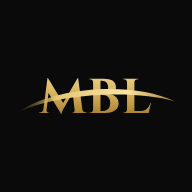
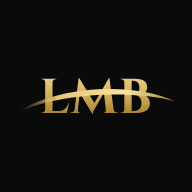
Renomeia o escritório para LMB Advocacia Estratégica
- Logo em contorno com as letras LMB (Cinzel Bold), favicon, ícones e
  imagem de compartilhamento atualizados
- Emblema de esquadro e compasso com G no divisor do topo e do
  fechamento, como no novo logo
- Nome e domínio provisório (lmbadvocacia.com.br) trocados em todos os
  arquivos

Claude-Session: https://claude.ai/code/session_01KeUDgpfwfzimbVqSmPvtkD

Changed region(s): [[0.2188, 0.4062, 0.7812, 0.5938]]

diff --git a/index.html b/index.html
@@ -3,24 +3,24 @@
 <head>
   <meta charset="utf-8">
   <meta name="viewport" content="width=device-width, initial-scale=1">
-  <title>Advocacia Empresarial no Rio de Janeiro | MBL Advocacia</title>
+  <title>Advocacia Empresarial no Rio de Janeiro | LMB Advocacia</title>
   <meta name="description" content="Escritório de advocacia no Rio de Janeiro: consultoria jurídica empresarial, direito societário, reestruturação de empresas e contencioso cível e empresarial.">
-  <!-- Domínio provisório: troque https://www.mbladvocacia.com.br aqui, no JSON-LD, no canonical de privacidade.html, em robots.txt, sitemap.xml e .htaccess -->
-  <link rel="canonical" href="https://www.mbladvocacia.com.br/">
+  <!-- Domínio provisório: troque https://www.lmbadvocacia.com.br aqui, no JSON-LD, no canonical de privacidade.html, em robots.txt, sitemap.xml e .htaccess -->
+  <link rel="canonical" href="https://www.lmbadvocacia.com.br/">
   <meta name="robots" content="max-image-preview:large">
   <meta property="og:type" content="website">
   <meta property="og:locale" content="pt_BR">
-  <meta property="og:site_name" content="MBL Advocacia Estratégica">
-  <meta property="og:url" content="https://www.mbladvocacia.com.br/">
-  <meta property="og:title" content="MBL Advocacia Estratégica | Advocacia empresarial no Rio de Janeiro">
+  <meta property="og:site_name" content="LMB Advocacia Estratégica">
+  <meta property="og:url" content="https://www.lmbadvocacia.com.br/">
+  <meta property="og:title" content="LMB Advocacia Estratégica | Advocacia empresarial no Rio de Janeiro">
   <meta property="og:description" content="Experiência a favor do seu futuro. Consultoria jurídica e contencioso cível e empresarial no Rio de Janeiro, com atendimento em todo o Brasil.">
-  <meta property="og:image" content="https://www.mbladvocacia.com.br/assets/og-image.jpg">
+  <meta property="og:image" content="https://www.lmbadvocacia.com.br/assets/og-image.jpg">
   <meta property="og:image:type" content="image/jpeg">
   <meta property="og:image:width" content="1200">
   <meta property="og:image:height" content="630">
-  <meta property="og:image:alt" content="Logotipo MBL em dourado sobre fundo preto, com os dizeres Advocacia Estratégica, Experiência a favor do seu futuro, Rio de Janeiro, atendimento em todo o Brasil.">
+  <meta property="og:image:alt" content="Logotipo LMB em dourado sobre fundo preto, com esquadro e compasso e os dizeres Advocacia Estratégica, Experiência a favor do seu futuro, Rio de Janeiro, atendimento em todo o Brasil.">
   <meta name="twitter:card" content="summary_large_image">
-  <meta name="twitter:image:alt" content="Logotipo MBL em dourado sobre fundo preto, com os dizeres Advocacia Estratégica, Experiência a favor do seu futuro, Rio de Janeiro, atendimento em todo o Brasil.">
+  <meta name="twitter:image:alt" content="Logotipo LMB em dourado sobre fundo preto, com esquadro e compasso e os dizeres Advocacia Estratégica, Experiência a favor do seu futuro, Rio de Janeiro, atendimento em todo o Brasil.">
   <meta name="theme-color" content="#0a0a0a">
   <meta name="color-scheme" content="dark">
   <link rel="icon" href="assets/favicon.svg" type="image/svg+xml">
@@ -32,7 +32,7 @@
   <link rel="preload" href="fonts/montserrat-latin-300-600.woff2" as="font" type="font/woff2" crossorigin>
   <script src="script.js" defer></script>
   <style>
-    /* ===== MBL Advocacia Estratégica — preto & dourado ===== */
+    /* ===== LMB Advocacia Estratégica — preto & dourado ===== */
     /* ===== Fontes (auto-hospedadas, subset latin, variáveis — licença OFL em fonts/OFL.txt) ===== */
     @font-face { font-family: "Cinzel"; src: url(fonts/cinzel-latin-500-600.woff2) format("woff2"); font-weight: 500 600; font-display: swap; unicode-range: U+0000-00FF, U+0131, U+0152-0153, U+02C6, U+02DA, U+02DC, U+2013-2014, U+2018-201A, U+201C-201E, U+2022, U+2026, U+2039-203A, U+20AC, U+2122; }
     @font-face { font-family: "Montserrat"; src: url(fonts/montserrat-latin-300-600.woff2) format("woff2"); font-weight: 300 600; font-display: swap; unicode-range: U+0000-00FF, U+0131, U+0152-0153, U+02C6, U+02DA, U+02DC, U+2013-2014, U+2018-201A, U+201C-201E, U+2022, U+2026, U+2039-203A, U+20AC, U+2122; }
@@ -243,6 +243,13 @@
     .area .icon { width: 34px; height: 34px; margin-bottom: 1.4rem; }
     .area--wide { grid-column: 1 / -1; display: flex; gap: 1.6rem; align-items: flex-start; }
     .area--wide .icon { width: 40px; height: 40px; margin: 0; }
+    .emblema { display: flex; align-items: center; justify-content: center; gap: 14px; margin: 1.6rem auto; }
+    .emblema::before, .emblema::after { content: ""; width: clamp(60px, 14vw, 180px); height: 1px; background: linear-gradient(90deg, rgba(212,175,90,0), var(--gold)); }
+    .emblema::after { transform: scaleX(-1); }
+    .emblema svg { width: 42px; height: 42px; flex: none; }
+    .emblema--left { justify-content: flex-start; margin: 1.2rem 0 1.4rem; }
+    .emblema--left::before { display: none; }
+    .emblema--left::after { width: 120px; }
     .ornament { display: flex; align-items: center; justify-content: center; gap: 14px; margin: 1.8rem auto; }
     .ornament::before, .ornament::after { content: ""; width: 44px; height: 1px; background: linear-gradient(90deg, rgba(212,175,90,0), var(--gold)); }
     .ornament::after { transform: scaleX(-1); }
@@ -443,38 +450,38 @@
   "@graph": [
     {
       "@type": "WebSite",
-      "@id": "https://www.mbladvocacia.com.br/#website",
-      "url": "https://www.mbladvocacia.com.br/",
-      "name": "MBL Advocacia Estratégica",
+      "@id": "https://www.lmbadvocacia.com.br/#website",
+      "url": "https://www.lmbadvocacia.com.br/",
+      "name": "LMB Advocacia Estratégica",
       "inLanguage": "pt-BR",
       "publisher": {
-        "@id": "https://www.mbladvocacia.com.br/#escritorio"
+        "@id": "https://www.lmbadvocacia.com.br/#escritorio"
       }
     },
     {
       "@type": "LegalService",
-      "@id": "https://www.mbladvocacia.com.br/#escritorio",
-      "name": "MBL Advocacia Estratégica",
+      "@id": "https://www.lmbadvocacia.com.br/#escritorio",
+      "name": "LMB Advocacia Estratégica",
       "legalName": "[Razão social registrada na OAB/RJ]",
       "description": "Escritório de advocacia no Rio de Janeiro com atuação em consultoria jurídica empresarial, contratos, direito societário, reestruturação de empresas, contencioso cível e empresarial e direito marítimo, com atendimento em todo o Brasil.",
-      "url": "https://www.mbladvocacia.com.br/",
+      "url": "https://www.lmbadvocacia.com.br/",
       "logo": {
         "@type": "ImageObject",
-        "@id": "https://www.mbladvocacia.com.br/#logo",
-        "url": "https://www.mbladvocacia.com.br/assets/icon-512.png",
-        "contentUrl": "https://www.mbladvocacia.com.br/assets/icon-512.png",
+        "@id": "https://www.lmbadvocacia.com.br/#logo",
+        "url": "https://www.lmbadvocacia.com.br/assets/icon-512.png",
+        "contentUrl": "https://www.lmbadvocacia.com.br/assets/icon-512.png",
         "width": 512,
         "height": 512,
-        "caption": "MBL Advocacia Estratégica"
+        "caption": "LMB Advocacia Estratégica"
       },
       "image": {
         "@type": "ImageObject",
-        "url": "https://www.mbladvocacia.com.br/assets/og-image.jpg",
+        "url": "https://www.lmbadvocacia.com.br/assets/og-image.jpg",
         "width": 1200,
         "height": 630
       },
       "telephone": "+55-21-90000-0000",
-      "email": "contato@mbladvocacia.com.br",
+      "email": "contato@lmbadvocacia.com.br",
       "address": {
         "@type": "PostalAddress",
         "streetAddress": "Av. Rio Branco, 000 – Centro",
@@ -526,14 +533,14 @@
     },
     {
       "@type": "FAQPage",
-      "@id": "https://www.mbladvocacia.com.br/#faq",
-      "url": "https://www.mbladvocacia.com.br/",
+      "@id": "https://www.lmbadvocacia.com.br/#faq",
+      "url": "https://www.lmbadvocacia.com.br/",
       "inLanguage": "pt-BR",
       "isPartOf": {
-        "@id": "https://www.mbladvocacia.com.br/#website"
+        "@id": "https://www.lmbadvocacia.com.br/#website"
       },
       "about": {
-        "@id": "https://www.mbladvocacia.com.br/#escritorio"
+        "@id": "https://www.lmbadvocacia.com.br/#escritorio"
       },
       "mainEntity": [
         {
@@ -594,7 +601,7 @@
       </linearGradient>
     </defs>
     <symbol id="logo" viewBox="0 0 300 110">
-      <path fill="url(#gold-logo)" d="m115.7 20.3.8 10-27.4 47.4-.9 1.6q-.9 1.6-1.8 3.9t-.9 4.6h-.9l-3.6-8Zm-62.4 59V86H43.1v-.9h1.5q2.5 0 4.4-1.5 2-1.6 2.3-4.3Zm4.1 1.5v.4q0 1.5 1.1 2.7 1 1.3 2.5 1.3h1.5v.8h-5.8v-5.2ZM59 20.3h.8l3.2 9.2L56.8 86h-6.3Zm.8 0 30.1 49.4-5.3 18.1-27.2-45.7Zm56.7 0 8.8 65.7h-14.8l-4.6-42.3 9.8-23.4Zm5.9 59h2q.4 2.7 2.4 4.3 1.9 1.5 4.3 1.5h1.5v.9h-10.2Zm-12.5 1.5h.7V86H105v-.8h1.3q1.6 0 2.6-1.3 1-1.2 1-2.7v-.4m38.3-59.2h15.9q6.7 0 12 1.6t8.3 5.1q3.1 3.4 3.1 9 0 4.3-1.7 7.2t-4.1 4.5q-2.6 1.6-5.5 1.9 4.6.4 8.4 2.6 3.7 2.2 5.8 5.9t2.1 8.7q0 5.8-3.2 9.9-3.2 4-9.1 6t-13.5 2h-9.1v-4.1h5q4.2 0 7.3-1.6 3.2-1.6 5-4.9t1.8-8.4q0-4.1-1.2-6.9-1.3-2.9-3.4-4.7t-4.8-2.6q-2.8-.8-5.8-.8v-.9q2.1 0 4.2-.7 2-.6 3.6-2.1t2.5-3.9q.9-2.5.9-5.9 0-4.7-1.4-7.5-1.5-2.9-4.1-4.2-2.7-1.2-6.2-1.2h-11.9l-.2-1.1-.5-1.9zm10.2 0V86h-13.8V21.6Zm-13.5 57.7V86h-7.4v-.9h1.2q2.4 0 4.1-1.7t1.8-4.1Zm0-51h-.3q-.1-2.4-1.8-4.1t-4.1-1.7h-1.2v-.9h7.4Zm77.1-6.7V86h-13.8V21.6ZM246.3 82l2.2 4h-26.8v-4Zm6.7-14.8L248.8 86h-18l3.3-4q4.6 0 8.1-1.8 3.5-1.7 6-5.1 2.4-3.4 3.9-7.9Zm-44.5 12.1V86h-7.4v-.9h1.2q2.4 0 4.1-1.7t1.8-4.1Zm0-51h-.3q-.1-2.4-1.8-4.1t-4.1-1.7h-1.2v-.9h7.4Zm13.2 0v-6.7h7.4v.9h-1.2q-2.4 0-4.1 1.7t-1.8 4.1Z"/>
+      <path fill="url(#gold-logo)" d="M68.5 21.6V86H54.7V21.6ZM92.8 82 95 86H68.2V82ZM99.5 67.2 95.3 86H77.2L80.5 82Q85.1 82 88.7 80.2Q92.2 78.4 94.7 75.1Q97.2 71.7 98.6 67.2ZM55 79.3V86H47.6V85.1Q47.6 85.1 48.2 85.1Q48.8 85.1 48.8 85.1Q51.2 85.1 52.9 83.4Q54.6 81.7 54.7 79.3ZM55 28.3H54.7Q54.6 25.9 52.9 24.2Q51.2 22.5 48.8 22.5Q48.8 22.5 48.2 22.5Q47.6 22.5 47.6 22.5V21.6H55ZM68.2 28.3V21.6H75.6V22.5Q75.5 22.5 74.9 22.5Q74.4 22.5 74.4 22.5Q72 22.5 70.3 24.2Q68.6 25.9 68.5 28.3ZM174.3 20.3 175 30.3 147.7 77.7Q147.7 77.7 146.8 79.3Q145.9 80.9 145 83.2Q144.2 85.6 144.1 87.8H143.2L139.6 79.8ZM111.9 79.3V86H101.7V85.1Q101.8 85.1 102.5 85.1Q103.2 85.1 103.2 85.1Q105.6 85.1 107.6 83.6Q109.5 82 109.9 79.3ZM116 80.8Q116 80.8 116 80.9Q116 81 116 81.2Q116 82.7 117 83.9Q118.1 85.2 119.6 85.2H121V86H115.3V80.8ZM117.5 20.3H118.4L121.6 29.5L115.4 86H109ZM118.4 20.3 148.4 69.7 143.2 87.8 116 42.1ZM175.1 20.3 183.9 86H169.1L164.4 43.7L174.3 20.3ZM181 79.3H183Q183.4 82 185.3 83.6Q187.2 85.1 189.7 85.1Q189.7 85.1 190.4 85.1Q191.1 85.1 191.2 85.1V86H181ZM168.5 80.8H169.2V86H163.5V85.2H164.9Q166.4 85.2 167.5 83.9Q168.5 82.7 168.5 81.2Q168.5 81 168.5 80.9Q168.5 80.8 168.5 80.8ZM206.8 21.6H222.7Q229.4 21.6 234.7 23.2Q240 24.8 243 28.2Q246.1 31.7 246.1 37.4Q246.1 41.6 244.4 44.5Q242.8 47.4 240.2 49Q237.7 50.6 234.8 50.9Q239.4 51.3 243.1 53.6Q246.8 55.8 249 59.4Q251.1 63.1 251.1 68Q251.1 73.9 247.9 77.9Q244.6 82 238.8 84Q233 86 225.2 86H216.1Q216.1 86 216.2 84.9Q216.2 83.9 216.2 82.9Q216.2 81.9 216.2 81.9H221.2Q225.3 81.9 228.5 80.3Q231.7 78.7 233.5 75.4Q235.3 72.1 235.3 66.9Q235.3 62.9 234.1 60.1Q232.8 57.2 230.7 55.4Q228.6 53.6 225.9 52.8Q223.2 52 220.1 52V51.1Q222.2 51.1 224.3 50.4Q226.3 49.8 227.9 48.3Q229.4 46.8 230.4 44.4Q231.3 42 231.3 38.5Q231.3 33.9 229.9 31Q228.4 28.1 225.8 26.8Q223.2 25.5 219.6 25.5H207.7Q207.7 25.5 207.5 24.5Q207.3 23.6 207 22.6Q206.8 21.6 206.8 21.6ZM216.9 21.6V86H203.1V21.6ZM203.4 79.3V86H196.1L196.1 85.1Q196.3 85.1 196.7 85.1Q197.2 85.1 197.3 85.1Q199.6 85.1 201.4 83.4Q203.1 81.7 203.1 79.3ZM203.4 28.3H203.1Q203.1 25.9 201.4 24.2Q199.6 22.5 197.3 22.5Q197.2 22.5 196.7 22.5Q196.3 22.5 196.1 22.5L196.1 21.6H203.4Z"/>
       <path d="M4 84 C 80 34, 222 28, 298 64 C 222 42, 84 48, 4 84 Z" fill="url(#gold-h)"/>
     </symbol>
 
@@ -613,6 +620,14 @@
     <symbol id="i-prumo" viewBox="0 0 24 24"><path d="M7 3.5h10M12 3.5V12"/><path d="M12 12c1.7 0 2.7 1 2.7 2.3 0 1.7-1.4 3.6-2.7 6.4-1.3-2.8-2.7-4.7-2.7-6.4 0-1.3 1-2.3 2.7-2.3Z"/></symbol>
     <symbol id="i-pin" viewBox="0 0 24 24"><path d="M12 21s-7-6.2-7-12a7 7 0 0 1 14 0c0 5.8-7 12-7 12Z"/><circle cx="12" cy="9" r="2.5"/></symbol>
     <symbol id="i-ancora" viewBox="0 0 24 24"><circle cx="12" cy="4.5" r="2"/><path d="M12 6.5V21M8 10h8M4.5 13.5a7.5 7.5 0 0 0 15 0M3 15.5l1.5-2 2 1.5M21 15.5l-1.5-2-2 1.5"/></symbol>
+    <symbol id="i-emblema" viewBox="0 0 48 48">
+      <g fill="none" stroke="url(#gold)" stroke-width="1.8" stroke-linecap="round" stroke-linejoin="round">
+        <circle cx="24" cy="5.5" r="2.4"/>
+        <path d="M22.9 7.7 9 41.5M25.1 7.7 39 41.5M14.8 27.5h18.4"/>
+        <path d="M5 25.5 24 44.5 43 25.5M9.4 25.5 24 40.1 38.6 25.5"/>
+      </g>
+      <text x="24" y="31.5" text-anchor="middle" font-family="Cinzel, 'Times New Roman', serif" font-weight="600" font-size="10" fill="url(#gold)">G</text>
+    </symbol>
     <symbol id="i-tri" viewBox="0 0 12 11"><circle cx="6" cy="2" r="1.6"/><circle cx="2" cy="9" r="1.6"/><circle cx="10" cy="9" r="1.6"/></symbol>
     <symbol id="coluna" viewBox="0 0 200 600">
       <g fill="none" stroke="url(#gold)" stroke-width="1.4">
@@ -637,7 +652,7 @@
   <!-- ===== Cabeçalho ===== -->
   <header class="header">
     <div class="container header__inner">
-      <a href="#top" class="brand" aria-label="MBL Advocacia Estratégica — início">
+      <a href="#top" class="brand" aria-label="LMB Advocacia Estratégica — início">
         <svg class="brand__logo" viewBox="0 0 300 110" aria-hidden="true"><use href="#logo"/></svg>
         <span class="brand__name">Advocacia<br> Estratégica</span>
       </a>
@@ -660,9 +675,9 @@
       <div class="hero__sun" aria-hidden="true"></div>
       <svg class="hero__rio" aria-hidden="true"><use href="#rio"/></svg>
       <div class="container hero__inner">
-        <svg class="hero__logo" viewBox="0 0 300 110" role="img" aria-label="MBL"><use href="#logo"/></svg>
+        <svg class="hero__logo" viewBox="0 0 300 110" role="img" aria-label="LMB"><use href="#logo"/></svg>
         <p class="hero__brand">Advocacia Estratégica</p>
-        <span class="rule" aria-hidden="true"></span>
+        <span class="emblema emblema--left" aria-hidden="true"><svg focusable="false"><use href="#i-emblema"/></svg></span>
         <p class="eyebrow hero__eyebrow">Escritório de advocacia no Rio&nbsp;de&nbsp;Janeiro</p>
         <h1 class="hero__title">Experiência a favor<br> do <span class="gold">seu futuro.</span></h1>
         <p class="hero__lead">
@@ -671,7 +686,7 @@
           decisões bem informadas.
         </p>
         <div class="hero__actions">
-          <a href="https://wa.me/5521900000000?text=Ol%C3%A1%2C%20gostaria%20de%20agendar%20uma%20consulta%20com%20a%20MBL%20Advocacia." class="btn btn--gold" target="_blank" rel="noopener">Agendar consulta</a>
+          <a href="https://wa.me/5521900000000?text=Ol%C3%A1%2C%20gostaria%20de%20agendar%20uma%20consulta%20com%20a%20LMB%20Advocacia." class="btn btn--gold" target="_blank" rel="noopener">Agendar consulta</a>
           <a href="#atuacao" class="btn btn--ghost">Áreas de atuação</a>
         </div>
       </div>
@@ -694,7 +709,7 @@
             <li>Conflitos.</li>
             <li>Reestruturações.</li>
           </ul>
-          <p class="context__close">É nesse cenário que nasce a <span class="gold serif">MBL Advocacia Estratégica.</span></p>
+          <p class="context__close">É nesse cenário que nasce a <span class="gold serif">LMB Advocacia Estratégica.</span></p>
         </div>
       </div>
     </section>
@@ -728,7 +743,7 @@
         <div class="purpose__head reveal">
           <p class="eyebrow">Nosso propósito</p>
           <h2 class="title">Transformar complexidade jurídica em clareza <span class="gold">para a tomada de decisão.</span></h2>
-          <p class="lead">A MBL atua a partir da análise técnica do problema, considerando os aspectos que realmente importam para cada realidade.</p>
+          <p class="lead">A LMB atua a partir da análise técnica do problema, considerando os aspectos que realmente importam para cada realidade.</p>
         </div>
         <ul class="pillars reveal">
           <li><svg class="icon" aria-hidden="true" focusable="false"><use href="#i-risco"/></svg><span>Risco</span></li>
@@ -797,7 +812,7 @@
           <p class="eyebrow">Nosso método</p>
           <h2 class="title">Como conduzimos<br> <span class="gold">cada caso.</span></h2>
           <span class="rule" aria-hidden="true"></span>
-          <p class="lead">Na MBL, cada questão jurídica exige:</p>
+          <p class="lead">Na LMB, cada questão jurídica exige:</p>
           <ul class="diff__list">
             <li><svg class="icon" aria-hidden="true" focusable="false"><use href="#i-nivel"/></svg>Análise.</li>
             <li><svg class="icon" aria-hidden="true" focusable="false"><use href="#i-esquadro"/></svg>Estratégia.</li>
@@ -822,12 +837,12 @@
         <li>Pessoas</li><li>Ideias</li><li>Estratégia</li><li>Resultados</li><li>Um futuro</li><li>em construção</li>
       </ul>
       <div class="container closing__inner reveal">
-        <svg class="closing__logo" viewBox="0 0 300 110" role="img" aria-label="MBL"><use href="#logo"/></svg>
+        <svg class="closing__logo" viewBox="0 0 300 110" role="img" aria-label="LMB"><use href="#logo"/></svg>
         <p class="hero__brand">Advocacia Estratégica</p>
         <p class="tagline">Soluções <i></i> Negócios <i></i> Resultados</p>
-        <span class="ornament" aria-hidden="true"><svg class="tri" focusable="false"><use href="#i-tri"/></svg></span>
+        <span class="emblema" aria-hidden="true"><svg focusable="false"><use href="#i-emblema"/></svg></span>
         <h2 class="closing__title">O Direito como parte da estratégia.</h2>
-        <a href="https://wa.me/5521900000000?text=Ol%C3%A1%2C%20preciso%20de%20orienta%C3%A7%C3%A3o%20jur%C3%ADdica." class="btn btn--gold" target="_blank" rel="noopener">Falar com a MBL</a>
+        <a href="https://wa.me/5521900000000?text=Ol%C3%A1%2C%20preciso%20de%20orienta%C3%A7%C3%A3o%20jur%C3%ADdica." class="btn btn--gold" target="_blank" rel="noopener">Falar com a LMB</a>
       </div>
       <div class="container closing__foot">
         <span><svg class="icon icon--sm" aria-hidden="true" focusable="false"><use href="#i-pin"/></svg>Rio de Janeiro – RJ</span>
@@ -873,7 +888,7 @@
           <p class="lead">Atendimento presencial no Centro do Rio de Janeiro e online em todo o Brasil. Preencha o formulário ou fale diretamente pelos canais abaixo.</p>
           <ul class="contact__list">
             <li><span>WhatsApp</span><a href="https://wa.me/5521900000000" target="_blank" rel="noopener">(21) 90000-0000</a></li>
-            <li><span>E-mail</span><a href="mailto:contato@mbladvocacia.com.br">contato@mbladvocacia.com.br</a></li>
+            <li><span>E-mail</span><a href="mailto:contato@lmbadvocacia.com.br">contato@lmbadvocacia.com.br</a></li>
             <li><span>Endereço</span><address>Av. Rio Branco, 000 – Centro, Rio de Janeiro – RJ, 20000-000</address></li>
             <li><span>Horário</span>Segunda a sexta, 9h às 18h</li>
           </ul>
@@ -926,11 +941,11 @@
   <!-- ===== Rodapé ===== -->
   <footer class="footer">
     <div class="container footer__inner">
-      <svg class="footer__logo" viewBox="0 0 300 110" role="img" aria-label="MBL"><use href="#logo"/></svg>
+      <svg class="footer__logo" viewBox="0 0 300 110" role="img" aria-label="LMB"><use href="#logo"/></svg>
       <p class="hero__brand">Advocacia Estratégica</p>
       <p class="tagline">Soluções <i></i> Negócios <i></i> Resultados</p>
-      <p class="footer__nap">MBL Advocacia Estratégica · Av. Rio Branco, 000 – Centro, Rio de Janeiro – RJ, 20000-000 · <a href="tel:+5521900000000">(21) 90000-0000</a></p>
-      <p class="footer__legal">[Razão social registrada na OAB/RJ] · Registro OAB/RJ nº&nbsp;000.000 <svg class="tri" aria-hidden="true" focusable="false"><use href="#i-tri"/></svg> © <span id="ano">2026</span> MBL Advocacia Estratégica. Todos os direitos reservados. <a href="privacidade.html">Privacidade</a></p>
+      <p class="footer__nap">LMB Advocacia Estratégica · Av. Rio Branco, 000 – Centro, Rio de Janeiro – RJ, 20000-000 · <a href="tel:+5521900000000">(21) 90000-0000</a></p>
+      <p class="footer__legal">[Razão social registrada na OAB/RJ] · Registro OAB/RJ nº&nbsp;000.000 <svg class="tri" aria-hidden="true" focusable="false"><use href="#i-tri"/></svg> © <span id="ano">2026</span> LMB Advocacia Estratégica. Todos os direitos reservados. <a href="privacidade.html">Privacidade</a></p>
     </div>
     <a href="https://wa.me/5521900000000" class="wa-float" target="_blank" rel="noopener" aria-label="Conversar pelo WhatsApp">
     <svg viewBox="0 0 32 32" width="28" height="28" aria-hidden="true"><path fill="currentColor" d="M16.04 3C9.4 3 4 8.38 4 15.02c0 2.12.56 4.19 1.62 6.01L4 29l8.17-1.6a12 12 0 0 0 3.87.64C22.67 28.04 28 22.66 28 16.02 28 9.38 22.67 3 16.04 3Zm0 22.9c-1.26 0-2.5-.22-3.67-.66l-.26-.1-4.85.95.97-4.72-.17-.28a9.86 9.86 0 0 1-1.52-5.27c0-5.47 4.47-9.93 9.5-9.93 5.52 0 9.8 4.46 9.8 9.93 0 5.6-4.28 10.08-9.8 10.08Zm5.43-7.4c-.3-.15-1.76-.87-2.03-.97-.27-.1-.47-.15-.67.15-.2.3-.77.97-.94 1.17-.17.2-.35.22-.65.07-.3-.15-1.26-.46-2.4-1.48-.89-.79-1.49-1.77-1.66-2.07-.17-.3-.02-.46.13-.61.13-.13.3-.35.45-.52.15-.17.2-.3.3-.5.1-.2.05-.37-.02-.52-.08-.15-.67-1.62-.92-2.22-.24-.58-.49-.5-.67-.51h-.57c-.2 0-.52.07-.8.37-.27.3-1.04 1.02-1.04 2.49s1.07 2.89 1.22 3.09c.15.2 2.1 3.2 5.08 4.49.71.3 1.27.49 1.7.63.72.23 1.37.2 1.88.12.57-.08 1.76-.72 2.01-1.42.25-.7.25-1.29.17-1.42-.07-.12-.27-.2-.57-.35Z"/></svg>

diff --git a/privacidade.html b/privacidade.html
@@ -3,9 +3,9 @@
 <head>
   <meta charset="utf-8">
   <meta name="viewport" content="width=device-width, initial-scale=1">
-  <title>Política de Privacidade | MBL Advocacia Estratégica</title>
-  <meta name="description" content="Como a MBL Advocacia Estratégica trata os dados pessoais enviados pelo site, conforme a Lei Geral de Proteção de Dados (LGPD).">
-  <link rel="canonical" href="https://www.mbladvocacia.com.br/privacidade.html">
+  <title>Política de Privacidade | LMB Advocacia Estratégica</title>
+  <meta name="description" content="Como a LMB Advocacia Estratégica trata os dados pessoais enviados pelo site, conforme a Lei Geral de Proteção de Dados (LGPD).">
+  <link rel="canonical" href="https://www.lmbadvocacia.com.br/privacidade.html">
   <meta name="theme-color" content="#0a0a0a">
   <link rel="icon" href="assets/favicon.svg" type="image/svg+xml">
   <link rel="apple-touch-icon" href="assets/apple-touch-icon.png" sizes="180x180">
@@ -29,18 +29,18 @@
       </linearGradient>
     </defs>
     <symbol id="logo" viewBox="0 0 300 110">
-      <path fill="url(#gold-logo)" d="m115.7 20.3.8 10-27.4 47.4-.9 1.6q-.9 1.6-1.8 3.9t-.9 4.6h-.9l-3.6-8Zm-62.4 59V86H43.1v-.9h1.5q2.5 0 4.4-1.5 2-1.6 2.3-4.3Zm4.1 1.5v.4q0 1.5 1.1 2.7 1 1.3 2.5 1.3h1.5v.8h-5.8v-5.2ZM59 20.3h.8l3.2 9.2L56.8 86h-6.3Zm.8 0 30.1 49.4-5.3 18.1-27.2-45.7Zm56.7 0 8.8 65.7h-14.8l-4.6-42.3 9.8-23.4Zm5.9 59h2q.4 2.7 2.4 4.3 1.9 1.5 4.3 1.5h1.5v.9h-10.2Zm-12.5 1.5h.7V86H105v-.8h1.3q1.6 0 2.6-1.3 1-1.2 1-2.7v-.4m38.3-59.2h15.9q6.7 0 12 1.6t8.3 5.1q3.1 3.4 3.1 9 0 4.3-1.7 7.2t-4.1 4.5q-2.6 1.6-5.5 1.9 4.6.4 8.4 2.6 3.7 2.2 5.8 5.9t2.1 8.7q0 5.8-3.2 9.9-3.2 4-9.1 6t-13.5 2h-9.1v-4.1h5q4.2 0 7.3-1.6 3.2-1.6 5-4.9t1.8-8.4q0-4.1-1.2-6.9-1.3-2.9-3.4-4.7t-4.8-2.6q-2.8-.8-5.8-.8v-.9q2.1 0 4.2-.7 2-.6 3.6-2.1t2.5-3.9q.9-2.5.9-5.9 0-4.7-1.4-7.5-1.5-2.9-4.1-4.2-2.7-1.2-6.2-1.2h-11.9l-.2-1.1-.5-1.9zm10.2 0V86h-13.8V21.6Zm-13.5 57.7V86h-7.4v-.9h1.2q2.4 0 4.1-1.7t1.8-4.1Zm0-51h-.3q-.1-2.4-1.8-4.1t-4.1-1.7h-1.2v-.9h7.4Zm77.1-6.7V86h-13.8V21.6ZM246.3 82l2.2 4h-26.8v-4Zm6.7-14.8L248.8 86h-18l3.3-4q4.6 0 8.1-1.8 3.5-1.7 6-5.1 2.4-3.4 3.9-7.9Zm-44.5 12.1V86h-7.4v-.9h1.2q2.4 0 4.1-1.7t1.8-4.1Zm0-51h-.3q-.1-2.4-1.8-4.1t-4.1-1.7h-1.2v-.9h7.4Zm13.2 0v-6.7h7.4v.9h-1.2q-2.4 0-4.1 1.7t-1.8 4.1Z"/>
+      <path fill="url(#gold-logo)" d="M68.5 21.6V86H54.7V21.6ZM92.8 82 95 86H68.2V82ZM99.5 67.2 95.3 86H77.2L80.5 82Q85.1 82 88.7 80.2Q92.2 78.4 94.7 75.1Q97.2 71.7 98.6 67.2ZM55 79.3V86H47.6V85.1Q47.6 85.1 48.2 85.1Q48.8 85.1 48.8 85.1Q51.2 85.1 52.9 83.4Q54.6 81.7 54.7 79.3ZM55 28.3H54.7Q54.6 25.9 52.9 24.2Q51.2 22.5 48.8 22.5Q48.8 22.5 48.2 22.5Q47.6 22.5 47.6 22.5V21.6H55ZM68.2 28.3V21.6H75.6V22.5Q75.5 22.5 74.9 22.5Q74.4 22.5 74.4 22.5Q72 22.5 70.3 24.2Q68.6 25.9 68.5 28.3ZM174.3 20.3 175 30.3 147.7 77.7Q147.7 77.7 146.8 79.3Q145.9 80.9 145 83.2Q144.2 85.6 144.1 87.8H143.2L139.6 79.8ZM111.9 79.3V86H101.7V85.1Q101.8 85.1 102.5 85.1Q103.2 85.1 103.2 85.1Q105.6 85.1 107.6 83.6Q109.5 82 109.9 79.3ZM116 80.8Q116 80.8 116 80.9Q116 81 116 81.2Q116 82.7 117 83.9Q118.1 85.2 119.6 85.2H121V86H115.3V80.8ZM117.5 20.3H118.4L121.6 29.5L115.4 86H109ZM118.4 20.3 148.4 69.7 143.2 87.8 116 42.1ZM175.1 20.3 183.9 86H169.1L164.4 43.7L174.3 20.3ZM181 79.3H183Q183.4 82 185.3 83.6Q187.2 85.1 189.7 85.1Q189.7 85.1 190.4 85.1Q191.1 85.1 191.2 85.1V86H181ZM168.5 80.8H169.2V86H163.5V85.2H164.9Q166.4 85.2 167.5 83.9Q168.5 82.7 168.5 81.2Q168.5 81 168.5 80.9Q168.5 80.8 168.5 80.8ZM206.8 21.6H222.7Q229.4 21.6 234.7 23.2Q240 24.8 243 28.2Q246.1 31.7 246.1 37.4Q246.1 41.6 244.4 44.5Q242.8 47.4 240.2 49Q237.7 50.6 234.8 50.9Q239.4 51.3 243.1 53.6Q246.8 55.8 249 59.4Q251.1 63.1 251.1 68Q251.1 73.9 247.9 77.9Q244.6 82 238.8 84Q233 86 225.2 86H216.1Q216.1 86 216.2 84.9Q216.2 83.9 216.2 82.9Q216.2 81.9 216.2 81.9H221.2Q225.3 81.9 228.5 80.3Q231.7 78.7 233.5 75.4Q235.3 72.1 235.3 66.9Q235.3 62.9 234.1 60.1Q232.8 57.2 230.7 55.4Q228.6 53.6 225.9 52.8Q223.2 52 220.1 52V51.1Q222.2 51.1 224.3 50.4Q226.3 49.8 227.9 48.3Q229.4 46.8 230.4 44.4Q231.3 42 231.3 38.5Q231.3 33.9 229.9 31Q228.4 28.1 225.8 26.8Q223.2 25.5 219.6 25.5H207.7Q207.7 25.5 207.5 24.5Q207.3 23.6 207 22.6Q206.8 21.6 206.8 21.6ZM216.9 21.6V86H203.1V21.6ZM203.4 79.3V86H196.1L196.1 85.1Q196.3 85.1 196.7 85.1Q197.2 85.1 197.3 85.1Q199.6 85.1 201.4 83.4Q203.1 81.7 203.1 79.3ZM203.4 28.3H203.1Q203.1 25.9 201.4 24.2Q199.6 22.5 197.3 22.5Q197.2 22.5 196.7 22.5Q196.3 22.5 196.1 22.5L196.1 21.6H203.4Z"/>
       <path d="M4 84 C 80 34, 222 28, 298 64 C 222 42, 84 48, 4 84 Z" fill="url(#gold-h)"/>
     </symbol>
   </svg>
   <main class="wrap">
-    <a href="./" class="top" aria-label="MBL Advocacia Estratégica — página inicial">
+    <a href="./" class="top" aria-label="LMB Advocacia Estratégica — página inicial">
       <svg viewBox="0 0 300 110" width="92" height="34" aria-hidden="true"><use href="#logo"/></svg>
       <span>Advocacia<br> Estratégica</span>
     </a>
     <h1>Política de Privacidade</h1>
     <span class="rule" aria-hidden="true"></span>
-    <p>Esta política explica como a <strong>MBL Advocacia Estratégica</strong> ([Razão social registrada na OAB/RJ], registro OAB/RJ nº 000.000, CNPJ 00.000.000/0001-00), controladora dos dados, trata os dados pessoais informados neste site, em conformidade com a Lei nº 13.709/2018 (Lei Geral de Proteção de Dados — LGPD).</p>
+    <p>Esta política explica como a <strong>LMB Advocacia Estratégica</strong> ([Razão social registrada na OAB/RJ], registro OAB/RJ nº 000.000, CNPJ 00.000.000/0001-00), controladora dos dados, trata os dados pessoais informados neste site, em conformidade com a Lei nº 13.709/2018 (Lei Geral de Proteção de Dados — LGPD).</p>
 
     <h2>Quais dados coletamos</h2>
     <p>Os dados que você informa no formulário de contato (nome, telefone/WhatsApp, e-mail, assunto e a descrição do caso) e os que você nos enviar diretamente por WhatsApp, e-mail ou telefone. O provedor de hospedagem também pode registrar dados técnicos de acesso (endereço IP, data e hora), conforme o Marco Civil da Internet (Lei nº 12.965/2014).</p>
@@ -61,11 +61,11 @@
     <p>Este site não utiliza cookies, ferramentas de análise ou rastreadores de terceiros.</p>
 
     <h2>Seus direitos</h2>
-    <p>Você pode pedir confirmação, acesso, correção, anonimização ou eliminação dos seus dados, além de revogar o consentimento (art. 18 da LGPD), pelo e-mail <a href="mailto:contato@mbladvocacia.com.br">contato@mbladvocacia.com.br</a>.</p>
+    <p>Você pode pedir confirmação, acesso, correção, anonimização ou eliminação dos seus dados, além de revogar o consentimento (art. 18 da LGPD), pelo e-mail <a href="mailto:contato@lmbadvocacia.com.br">contato@lmbadvocacia.com.br</a>.</p>
 
     <p><small>Última atualização: outubro de 2026.</small></p>
     <a class="btn" href="./">Voltar ao site</a>
-    <p class="foot">MBL Advocacia Estratégica · [Razão social registrada na OAB/RJ] · Registro OAB/RJ nº&nbsp;000.000 · Rio de Janeiro – RJ</p>
+    <p class="foot">LMB Advocacia Estratégica · [Razão social registrada na OAB/RJ] · Registro OAB/RJ nº&nbsp;000.000 · Rio de Janeiro – RJ</p>
   </main>
 </body>
 </html>

diff --git a/404.html b/404.html
@@ -3,8 +3,8 @@
 <head>
   <meta charset="utf-8">
   <meta name="viewport" content="width=device-width, initial-scale=1">
-  <title>Página não encontrada | MBL Advocacia Estratégica</title>
-  <meta name="description" content="A página procurada não existe. Volte para a página inicial da MBL Advocacia Estratégica.">
+  <title>Página não encontrada | LMB Advocacia Estratégica</title>
+  <meta name="description" content="A página procurada não existe. Volte para a página inicial da LMB Advocacia Estratégica.">
   <meta name="robots" content="noindex">
   <meta name="theme-color" content="#0a0a0a">
   <link rel="icon" href="/assets/favicon.svg" type="image/svg+xml">
@@ -29,12 +29,12 @@
       </linearGradient>
     </defs>
     <symbol id="logo" viewBox="0 0 300 110">
-      <path fill="url(#gold-logo)" d="m115.7 20.3.8 10-27.4 47.4-.9 1.6q-.9 1.6-1.8 3.9t-.9 4.6h-.9l-3.6-8Zm-62.4 59V86H43.1v-.9h1.5q2.5 0 4.4-1.5 2-1.6 2.3-4.3Zm4.1 1.5v.4q0 1.5 1.1 2.7 1 1.3 2.5 1.3h1.5v.8h-5.8v-5.2ZM59 20.3h.8l3.2 9.2L56.8 86h-6.3Zm.8 0 30.1 49.4-5.3 18.1-27.2-45.7Zm56.7 0 8.8 65.7h-14.8l-4.6-42.3 9.8-23.4Zm5.9 59h2q.4 2.7 2.4 4.3 1.9 1.5 4.3 1.5h1.5v.9h-10.2Zm-12.5 1.5h.7V86H105v-.8h1.3q1.6 0 2.6-1.3 1-1.2 1-2.7v-.4m38.3-59.2h15.9q6.7 0 12 1.6t8.3 5.1q3.1 3.4 3.1 9 0 4.3-1.7 7.2t-4.1 4.5q-2.6 1.6-5.5 1.9 4.6.4 8.4 2.6 3.7 2.2 5.8 5.9t2.1 8.7q0 5.8-3.2 9.9-3.2 4-9.1 6t-13.5 2h-9.1v-4.1h5q4.2 0 7.3-1.6 3.2-1.6 5-4.9t1.8-8.4q0-4.1-1.2-6.9-1.3-2.9-3.4-4.7t-4.8-2.6q-2.8-.8-5.8-.8v-.9q2.1 0 4.2-.7 2-.6 3.6-2.1t2.5-3.9q.9-2.5.9-5.9 0-4.7-1.4-7.5-1.5-2.9-4.1-4.2-2.7-1.2-6.2-1.2h-11.9l-.2-1.1-.5-1.9zm10.2 0V86h-13.8V21.6Zm-13.5 57.7V86h-7.4v-.9h1.2q2.4 0 4.1-1.7t1.8-4.1Zm0-51h-.3q-.1-2.4-1.8-4.1t-4.1-1.7h-1.2v-.9h7.4Zm77.1-6.7V86h-13.8V21.6ZM246.3 82l2.2 4h-26.8v-4Zm6.7-14.8L248.8 86h-18l3.3-4q4.6 0 8.1-1.8 3.5-1.7 6-5.1 2.4-3.4 3.9-7.9Zm-44.5 12.1V86h-7.4v-.9h1.2q2.4 0 4.1-1.7t1.8-4.1Zm0-51h-.3q-.1-2.4-1.8-4.1t-4.1-1.7h-1.2v-.9h7.4Zm13.2 0v-6.7h7.4v.9h-1.2q-2.4 0-4.1 1.7t-1.8 4.1Z"/>
+      <path fill="url(#gold-logo)" d="M68.5 21.6V86H54.7V21.6ZM92.8 82 95 86H68.2V82ZM99.5 67.2 95.3 86H77.2L80.5 82Q85.1 82 88.7 80.2Q92.2 78.4 94.7 75.1Q97.2 71.7 98.6 67.2ZM55 79.3V86H47.6V85.1Q47.6 85.1 48.2 85.1Q48.8 85.1 48.8 85.1Q51.2 85.1 52.9 83.4Q54.6 81.7 54.7 79.3ZM55 28.3H54.7Q54.6 25.9 52.9 24.2Q51.2 22.5 48.8 22.5Q48.8 22.5 48.2 22.5Q47.6 22.5 47.6 22.5V21.6H55ZM68.2 28.3V21.6H75.6V22.5Q75.5 22.5 74.9 22.5Q74.4 22.5 74.4 22.5Q72 22.5 70.3 24.2Q68.6 25.9 68.5 28.3ZM174.3 20.3 175 30.3 147.7 77.7Q147.7 77.7 146.8 79.3Q145.9 80.9 145 83.2Q144.2 85.6 144.1 87.8H143.2L139.6 79.8ZM111.9 79.3V86H101.7V85.1Q101.8 85.1 102.5 85.1Q103.2 85.1 103.2 85.1Q105.6 85.1 107.6 83.6Q109.5 82 109.9 79.3ZM116 80.8Q116 80.8 116 80.9Q116 81 116 81.2Q116 82.7 117 83.9Q118.1 85.2 119.6 85.2H121V86H115.3V80.8ZM117.5 20.3H118.4L121.6 29.5L115.4 86H109ZM118.4 20.3 148.4 69.7 143.2 87.8 116 42.1ZM175.1 20.3 183.9 86H169.1L164.4 43.7L174.3 20.3ZM181 79.3H183Q183.4 82 185.3 83.6Q187.2 85.1 189.7 85.1Q189.7 85.1 190.4 85.1Q191.1 85.1 191.2 85.1V86H181ZM168.5 80.8H169.2V86H163.5V85.2H164.9Q166.4 85.2 167.5 83.9Q168.5 82.7 168.5 81.2Q168.5 81 168.5 80.9Q168.5 80.8 168.5 80.8ZM206.8 21.6H222.7Q229.4 21.6 234.7 23.2Q240 24.8 243 28.2Q246.1 31.7 246.1 37.4Q246.1 41.6 244.4 44.5Q242.8 47.4 240.2 49Q237.7 50.6 234.8 50.9Q239.4 51.3 243.1 53.6Q246.8 55.8 249 59.4Q251.1 63.1 251.1 68Q251.1 73.9 247.9 77.9Q244.6 82 238.8 84Q233 86 225.2 86H216.1Q216.1 86 216.2 84.9Q216.2 83.9 216.2 82.9Q216.2 81.9 216.2 81.9H221.2Q225.3 81.9 228.5 80.3Q231.7 78.7 233.5 75.4Q235.3 72.1 235.3 66.9Q235.3 62.9 234.1 60.1Q232.8 57.2 230.7 55.4Q228.6 53.6 225.9 52.8Q223.2 52 220.1 52V51.1Q222.2 51.1 224.3 50.4Q226.3 49.8 227.9 48.3Q229.4 46.8 230.4 44.4Q231.3 42 231.3 38.5Q231.3 33.9 229.9 31Q228.4 28.1 225.8 26.8Q223.2 25.5 219.6 25.5H207.7Q207.7 25.5 207.5 24.5Q207.3 23.6 207 22.6Q206.8 21.6 206.8 21.6ZM216.9 21.6V86H203.1V21.6ZM203.4 79.3V86H196.1L196.1 85.1Q196.3 85.1 196.7 85.1Q197.2 85.1 197.3 85.1Q199.6 85.1 201.4 83.4Q203.1 81.7 203.1 79.3ZM203.4 28.3H203.1Q203.1 25.9 201.4 24.2Q199.6 22.5 197.3 22.5Q197.2 22.5 196.7 22.5Q196.3 22.5 196.1 22.5L196.1 21.6H203.4Z"/>
       <path d="M4 84 C 80 34, 222 28, 298 64 C 222 42, 84 48, 4 84 Z" fill="url(#gold-h)"/>
     </symbol>
   </svg>
   <main class="wrap">
-    <a href="/" class="top" aria-label="MBL Advocacia Estratégica — página inicial">
+    <a href="/" class="top" aria-label="LMB Advocacia Estratégica — página inicial">
       <svg viewBox="0 0 300 110" width="92" height="34" aria-hidden="true"><use href="#logo"/></svg>
       <span>Advocacia<br> Estratégica</span>
     </a>
@@ -43,7 +43,7 @@
     <p>O endereço acessado não existe ou foi alterado.</p>
     <p>Você pode voltar para a página inicial ou falar com o escritório pelos <a href="/#contato">canais de contato</a>.</p>
     <a class="btn" href="/">Página inicial</a>
-    <p class="foot">MBL Advocacia Estratégica · [Razão social registrada na OAB/RJ] · Registro OAB/RJ nº&nbsp;000.000 · Rio de Janeiro – RJ</p>
+    <p class="foot">LMB Advocacia Estratégica · [Razão social registrada na OAB/RJ] · Registro OAB/RJ nº&nbsp;000.000 · Rio de Janeiro – RJ</p>
   </main>
 </body>
 </html>

diff --git a/script.js b/script.js
@@ -82,7 +82,7 @@ form.addEventListener("submit", (e) => {
   msg.classList.remove("is-error");
   const d = new FormData(form);
   const texto =
-    `Olá, MBL Advocacia Estratégica!\n\n` +
+    `Olá, LMB Advocacia Estratégica!\n\n` +
     `*Nome:* ${d.get("nome")}\n` +
     `*Telefone:* ${d.get("telefone")}\n` +
     `*E-mail:* ${d.get("email")}\n` +

diff --git a/README.md b/README.md
@@ -1,6 +1,6 @@
-# MBL Advocacia Estratégica — Landing Page
+# LMB Advocacia Estratégica — Landing Page
 
-Site estático (HTML + CSS + JS, sem dependências nem etapa de build) da MBL
+Site estático (HTML + CSS + JS, sem dependências nem etapa de build) da LMB
 Advocacia Estratégica, escritório no Rio de Janeiro com atuação em consultoria
 e contencioso. Identidade visual preto e dourado.
 
@@ -30,18 +30,18 @@ inscrição na OAB é exigida pelo Código de Ética (art. 44).
 
 | Item | Onde |
 |------|------|
-| WhatsApp (`5521900000000`) | `index.html`: os 4 links `wa.me` (botão do topo, CTA "Falar com a MBL", lista de `#contato` e botão flutuante `.wa-float`). O `script.js` lê o número do botão flutuante, não há constante a editar |
+| WhatsApp (`5521900000000`) | `index.html`: os 4 links `wa.me` (botão do topo, CTA "Falar com a LMB", lista de `#contato` e botão flutuante `.wa-float`). O `script.js` lê o número do botão flutuante, não há constante a editar |
 | Telefone visível `(21) 90000-0000` | `index.html`: lista de `#contato`, link `tel:` do rodapé (`.footer__nap`) e `"telephone"` no JSON-LD |
 | E-mail | `index.html`: `#contato` (`mailto:`) e `"email"` no JSON-LD; `privacidade.html` (direitos do titular) |
 | Endereço e CEP | `index.html`: `<address>` em `#contato`, `.footer__nap` e `"address"` no JSON-LD. Se o escritório não for no Centro, ajuste também a resposta 1 do FAQ, o texto de `#contato` e o JSON-LD |
 | Horário | `index.html`: lista de `#contato` e `"openingHoursSpecification"` no JSON-LD |
 | Razão social e nº da OAB/RJ (`000.000`) | `index.html`: `.footer__legal`, `"legalName"` e `"identifier"` no JSON-LD; rodapé (`.foot`) de `404.html` e `privacidade.html`; 1º parágrafo de `privacidade.html` (com CNPJ). Se não houver sociedade registrada, use o nome completo do advogado responsável |
-| Domínio (`www.mbladvocacia.com.br`, **ainda não registrado**) | `index.html`: `canonical`, `og:url`, `og:image` e todos os `@id`/`url` do JSON-LD; canonical de `privacidade.html`; `robots.txt`; `sitemap.xml`; regra comentada de `www` no `.htaccess` |
+| Domínio (`www.lmbadvocacia.com.br`, **ainda não registrado**) | `index.html`: `canonical`, `og:url`, `og:image` e todos os `@id`/`url` do JSON-LD; canonical de `privacidade.html`; `robots.txt`; `sitemap.xml`; regra comentada de `www` no `.htaccess` |
 
 Para conferir se sobrou algum dado provisório:
 
 ```bash
-grep -rnE "5521900000000|90000-0000|000\.000|Rio Branco, 000|20000-000|00\.000\.000|Razão social registrada|mbladvocacia" --exclude=README.md --exclude-dir=.git .
+grep -rnE "5521900000000|90000-0000|000\.000|Rio Branco, 000|20000-000|00\.000\.000|Razão social registrada|lmbadvocacia" --exclude=README.md --exclude-dir=.git .
 ```
 
 Ao editar textos, mantenha sincronizados:
@@ -65,8 +65,9 @@ de compliance do escritório antes de publicar.
 
 ## Identidade visual
 
-- Logo "MBL" com curva dourada, em SVG com as letras em contorno (`<symbol id="logo">` em `index.html`, `404.html` e `privacidade.html`; o favicon, os ícones e a `og-image.jpg` são exportações dele)
+- Logo "LMB" com curva dourada, em SVG com as letras em contorno (`<symbol id="logo">` em `index.html`, `404.html` e `privacidade.html`; o favicon, os ícones e a `og-image.jpg` são exportações dele)
 - Fontes: Cinzel (títulos) e Montserrat (texto)
 - Assinatura: "Experiência a favor do seu futuro" · Soluções | Negócios | Resultados
 - Ilustração do Pão de Açúcar ao pôr do sol em SVG (`<symbol id="rio">`); pode ser trocada por foto real
-- Ornamentos clássicos discretos: pórtico de duas colunas (seção Visão), ícones de nível, esquadro e prumo (Método) e vinheta de três pontos no rodapé
+- Emblema de esquadro e compasso com G (`<symbol id="i-emblema">`) no divisor do topo e do fechamento, como no logo
+- Ornamentos clássicos: pórtico de duas colunas (seção Visão), ícones de nível, esquadro e prumo (Método) e vinheta de três pontos no rodapé
